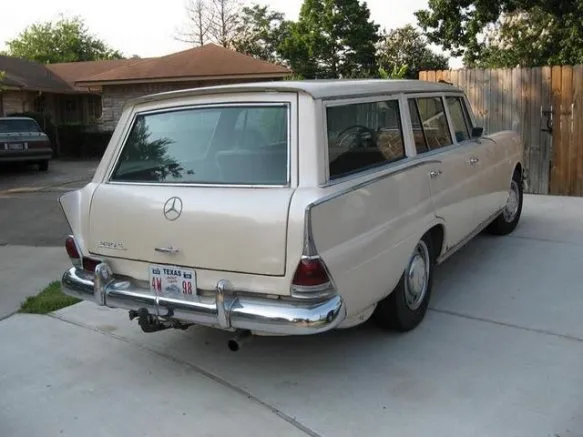
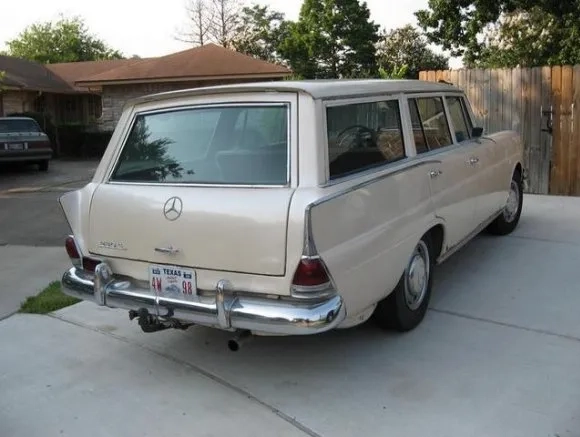
246

diff --git a/pic/ja_mb_img_s.html b/pic/ja_mb_img_s.html
@@ -430,14 +430,14 @@
 					</div>
 					<section>
 						<h4 class="displayNone">W111</h4>
-						<a href="full/s/w111_f.jpg"><img loading="lazy" src="style/s/w111_f.webp" alt="メルセデス,W111l,フロント" width="700" height="372"></a>
+						<a href="full/s/w111_f.jpg"><img loading="lazy" src="style/s/w111_f.webp" alt="メルセデス,W111l,フロント" width="697" height="372"></a>
 						<a href="full/s/w111_r.jpg"><img loading="lazy" src="style/s/w111_r.webp" alt="メルセデス,W111,リヤ" width="508" height="372"></a><br>
 						<a href="full/s/w111_d.jpg"><img loading="lazy" src="style/s/w111_d.webp" alt="メルセデス,W111,ダッシュボード" width="1210" height="804"></a>
 						<h5>Dimensions</h5>
 						<a href="full/s/w111_a.jpg"><img loading="lazy" src="style/s/w111_a.png" alt="メルセデス,W111,寸法" width="804" height="284"></a>
 						<h5>Universal</h5>
 						<a href="full/s/w111k_f.jpg"><img loading="lazy" src="style/s/w111k_f.webp" alt="メルセデス,W111l,Universal,フロント" width="625" height="437"></a>
-						<a href="full/s/w111k_r.jpg"><img loading="lazy" src="style/s/w111k_r.webp" alt="メルセデス,W111,Universal,リヤ" width="583" height="437"></a>
+						<a href="full/s/w111k_r.jpg"><img loading="lazy" src="style/s/w111k_r.webp" alt="メルセデス,W111,Universal,リヤ" width="580" height="437"></a>
 					</section>
 				</div>
 			</div>
@@ -465,7 +465,7 @@
 
 					<section>
 						<h4 class="displayNone">w108</h4>
-						<a href="full/s/w108_f.jpg"><img loading="lazy" src="style/s/w108_f.webp" alt="メルセデス,W108,フロント" width="673" height="381"></a>
+						<a href="full/s/w108_f.jpg"><img loading="lazy" src="style/s/w108_f.webp" alt="メルセデス,W108,フロント" width="671" height="381"></a>
 						<a href="full/s/w108_d.jpg"><img loading="lazy" src="style/s/w108_d.webp" alt="メルセデス,W108,ダッシュボード" width="533" height="381"></a><br>
 						<a href="full/s/w108_r.jpg"><img loading="lazy" src="style/s/w108_r.webp" alt="メルセデス,W108,リヤ" width="1210" height="728"></a>
 						<h5>Dimensions</h5>

diff --git a/pic/mb_img_s.html b/pic/mb_img_s.html
@@ -429,14 +429,14 @@
 					</div>
 					<section>
 						<h4 class="displayNone">W111</h4>
-						<a href="full/s/w111_f.jpg"><img loading="lazy" src="style/s/w111_f.webp" alt="Mercedes,W111l,Frontansicht" width="700" height="372"></a>
+						<a href="full/s/w111_f.jpg"><img loading="lazy" src="style/s/w111_f.webp" alt="Mercedes,W111l,Frontansicht" width="697" height="372"></a>
 						<a href="full/s/w111_r.jpg"><img loading="lazy" src="style/s/w111_r.webp" alt="Mercedes,W111,Rückansicht" width="508" height="372"></a><br>
 						<a href="full/s/w111_d.jpg"><img loading="lazy" src="style/s/w111_d.webp" alt="Mercedes,W111,Instrumententafel" width="1210" height="804"></a>
 						<h5>Abmessungen</h5>
 						<a href="full/s/w111_a.jpg"><img loading="lazy" src="style/s/w111_a.png" alt="Mercedes,W111,Abmessungen" width="804" height="284"></a>
 						<h5>Universal</h5>
 						<a href="full/s/w111k_f.jpg"><img loading="lazy" src="style/s/w111k_f.webp" alt="Mercedes,W111l,Universal,Frontansicht" width="625" height="437"></a>
-						<a href="full/s/w111k_r.jpg"><img loading="lazy" src="style/s/w111k_r.webp" alt="Mercedes,W111,Universal,Rückansicht" width="583" height="437"></a>
+						<a href="full/s/w111k_r.jpg"><img loading="lazy" src="style/s/w111k_r.webp" alt="Mercedes,W111,Universal,Rückansicht" width="580" height="437"></a>
 					</section>
 				</div>
 			</div>
@@ -464,7 +464,7 @@
 					</div>
 					<section>
 						<h4 class="displayNone">w108</h4>
-						<a href="full/s/w108_f.jpg"><img loading="lazy" src="style/s/w108_f.webp" alt="Mercedes,W108,Frontansicht" width="673" height="381"></a>
+						<a href="full/s/w108_f.jpg"><img loading="lazy" src="style/s/w108_f.webp" alt="Mercedes,W108,Frontansicht" width="671" height="381"></a>
 						<a href="full/s/w108_d.jpg"><img loading="lazy" src="style/s/w108_d.webp" alt="Mercedes,W108,Instrumententafel" width="533" height="381"></a><br>
 						<a href="full/s/w108_r.jpg"><img loading="lazy" src="style/s/w108_r.webp" alt="Mercedes,W108,Rückansicht" width="1210" height="728"></a>
 						<h5>Abmessungen</h5>

diff --git a/pic/en_mb_img_s.html b/pic/en_mb_img_s.html
@@ -430,14 +430,14 @@
 					</div>
 					<section>
 						<h4 class="displayNone">W111</h4>
-						<a href="full/s/w111_f.jpg"><img loading="lazy" src="style/s/w111_f.webp" alt="Mercedes,W111l,Front view" width="700" height="372"></a>
+						<a href="full/s/w111_f.jpg"><img loading="lazy" src="style/s/w111_f.webp" alt="Mercedes,W111l,Front view" width="697" height="372"></a>
 						<a href="full/s/w111_r.jpg"><img loading="lazy" src="style/s/w111_r.webp" alt="Mercedes,W111,Rear view" width="508" height="372"></a><br>
 						<a href="full/s/w111_d.jpg"><img loading="lazy" src="style/s/w111_d.webp" alt="Mercedes,W111,Dashboard" width="1210" height="804"></a>
 						<h5>Dimensions</h5>
 						<a href="full/s/w111_a.jpg"><img loading="lazy" src="style/s/w111_a.png" alt="Mercedes,W111,dimensions" width="804" height="284"></a>
 						<h5>Universal</h5>
 						<a href="full/s/w111k_f.jpg"><img loading="lazy" src="style/s/w111k_f.webp" alt="Mercedes,W111l,Universal,Front view" width="625" height="437"></a>
-						<a href="full/s/w111k_r.jpg"><img loading="lazy" src="style/s/w111k_r.webp" alt="Mercedes,W111,Universal,Rear view" width="583" height="437"></a>
+						<a href="full/s/w111k_r.jpg"><img loading="lazy" src="style/s/w111k_r.webp" alt="Mercedes,W111,Universal,Rear view" width="580" height="437"></a>
 					</section>
 				</div>
 			</div>
@@ -465,7 +465,7 @@
 
 					<section>
 						<h4 class="displayNone">w108</h4>
-						<a href="full/s/w108_f.jpg"><img loading="lazy" src="style/s/w108_f.webp" alt="Mercedes,W108,Front view" width="673" height="381"></a>
+						<a href="full/s/w108_f.jpg"><img loading="lazy" src="style/s/w108_f.webp" alt="Mercedes,W108,Front view" width="671" height="381"></a>
 						<a href="full/s/w108_d.jpg"><img loading="lazy" src="style/s/w108_d.webp" alt="Mercedes,W108,Dashboard" width="533" height="381"></a><br>
 						<a href="full/s/w108_r.jpg"><img loading="lazy" src="style/s/w108_r.webp" alt="Mercedes,W108,Rear view" width="1210" height="728"></a>
 						<h5>Dimensions</h5>
